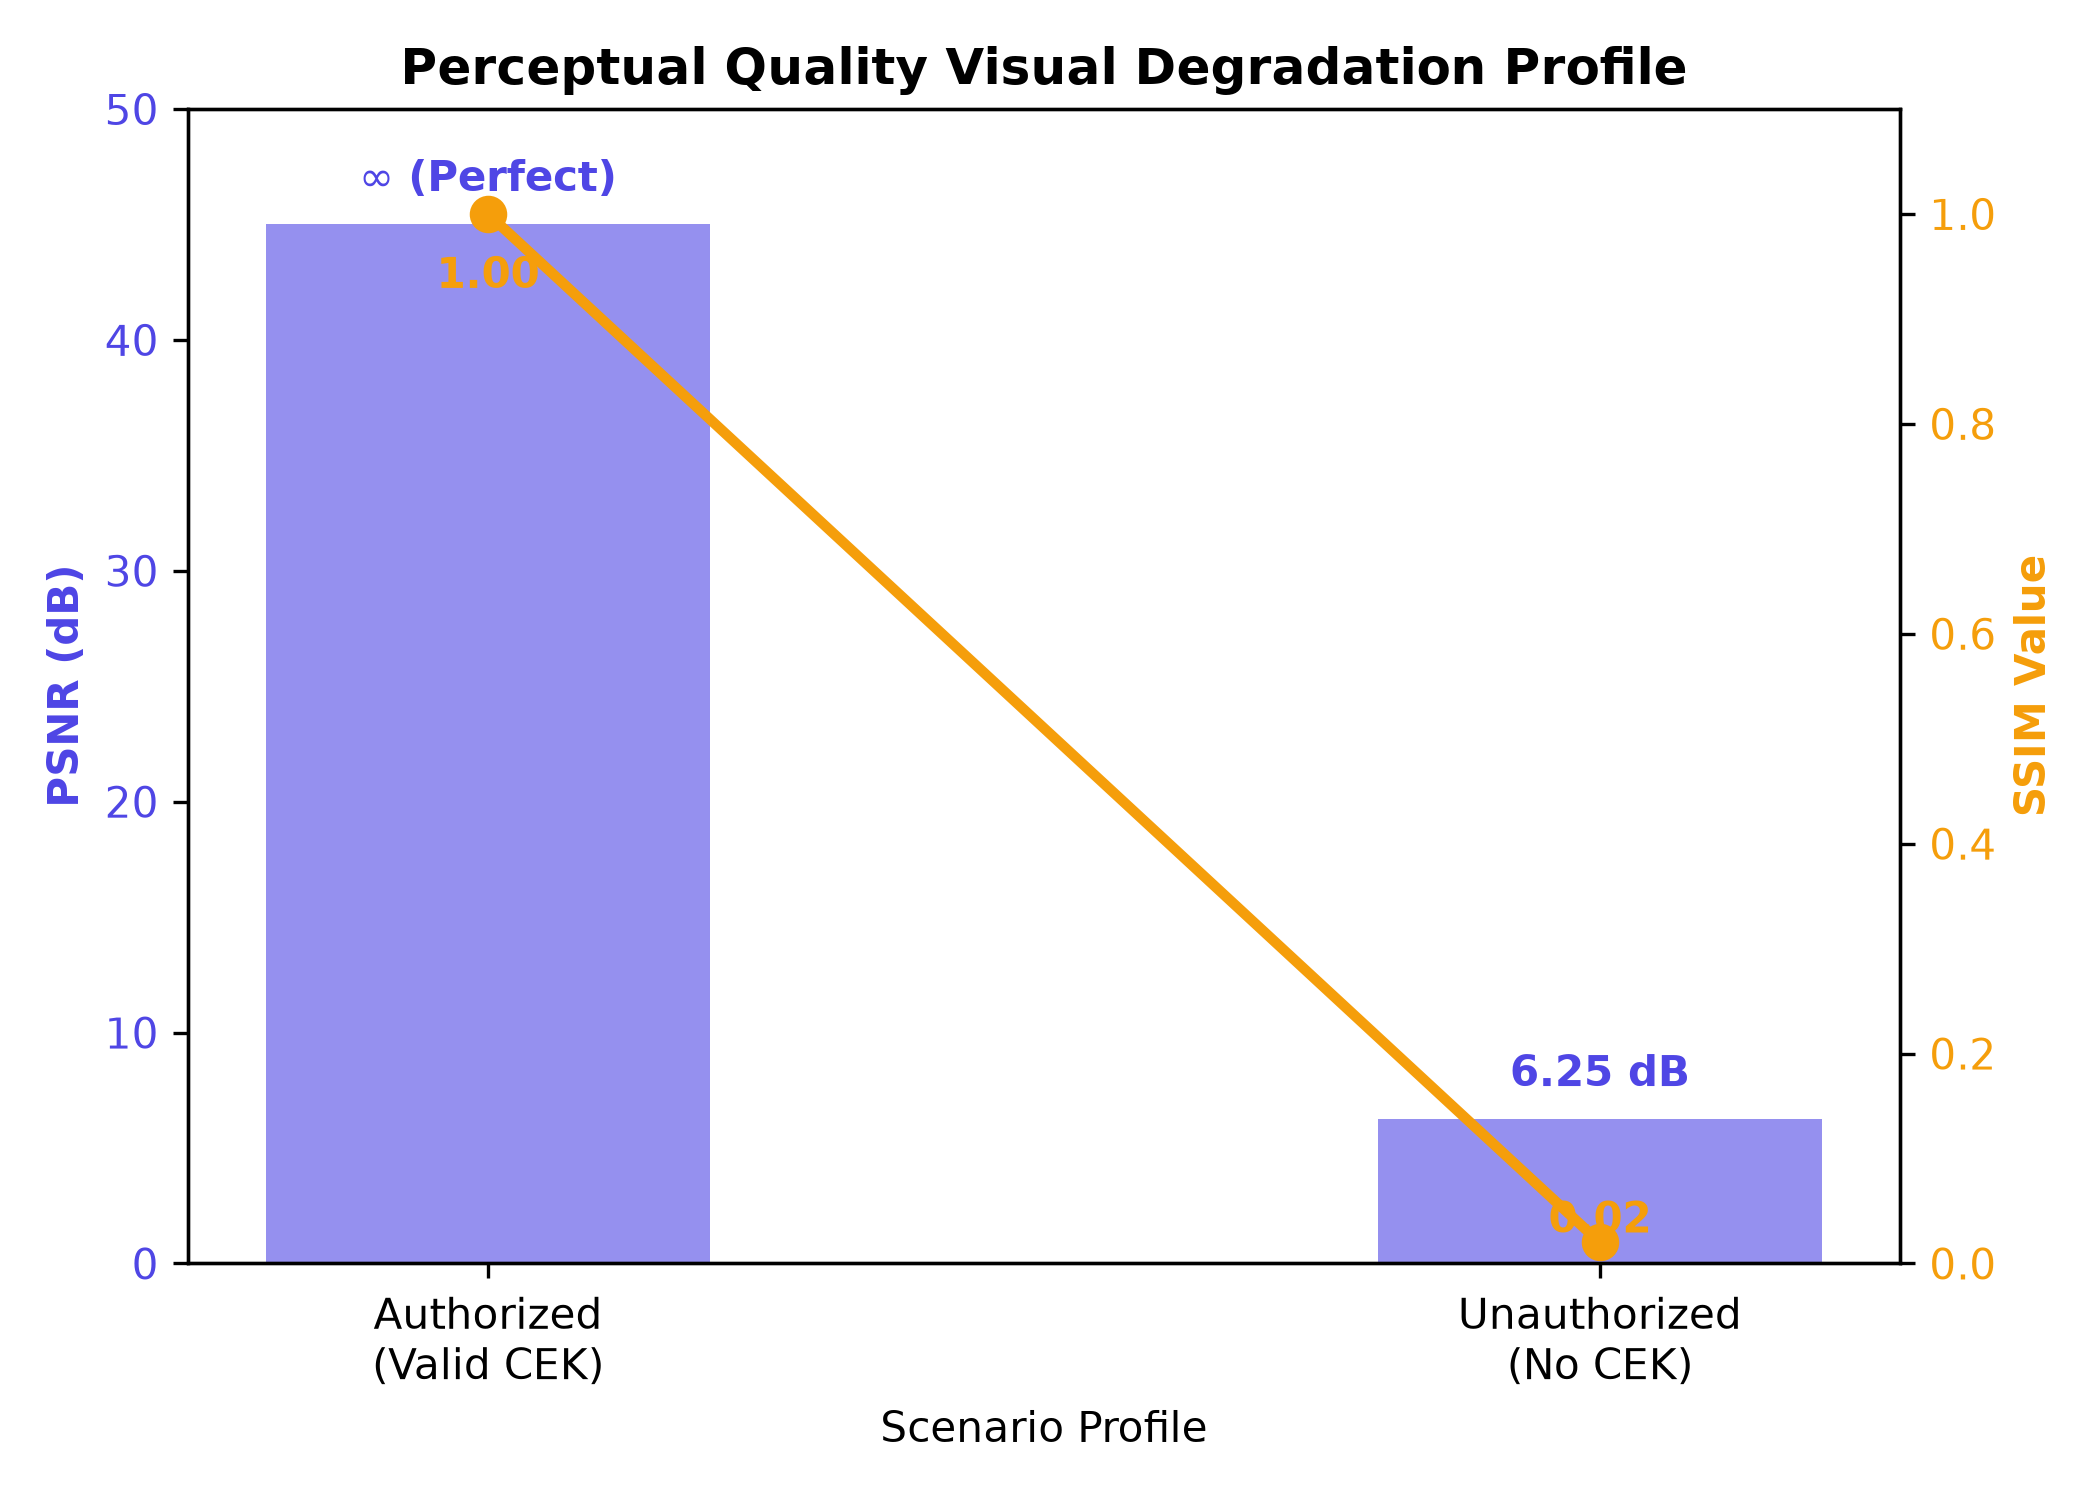
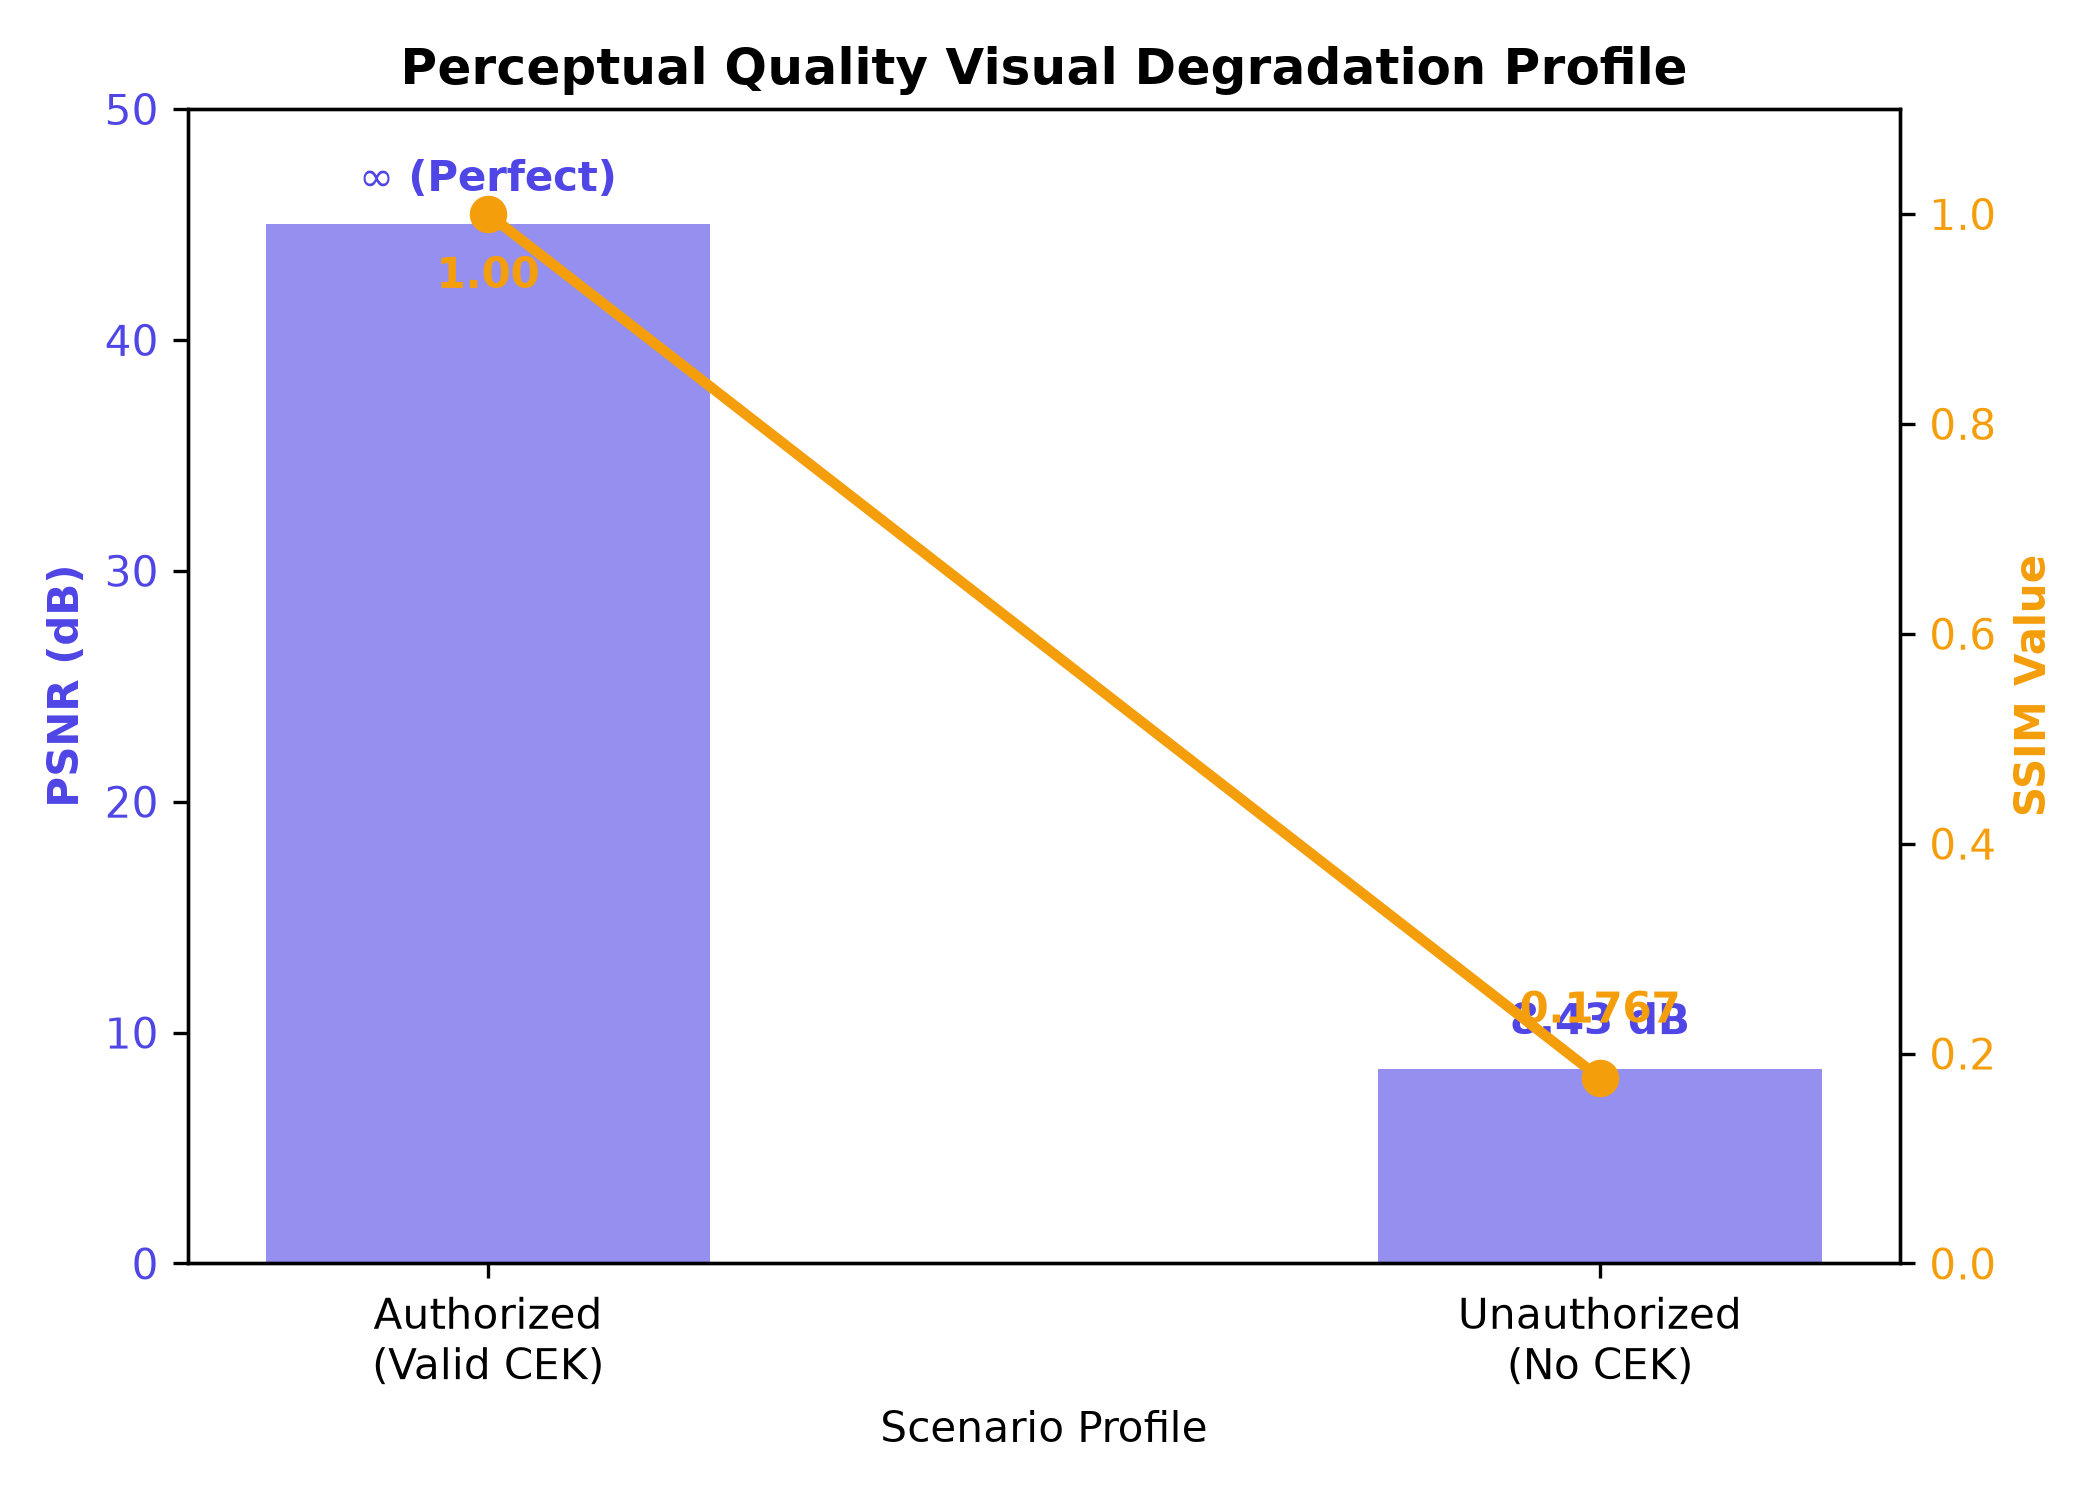
fix: utils calc

diff --git a/client/metrics_utils.py b/client/metrics_utils.py
@@ -1,28 +1,102 @@
 # client/metrics_utils.py
 import math
+import cv2
+import numpy as np
 
-def calculate_simulated_psnr(has_key: bool, nal_type_corrupted: bool = False) -> float:
+def calculate_psnr(img1: np.ndarray, img2: np.ndarray) -> float:
     """
-    Simulasi perhitungan PSNR (Peak Signal-to-Noise Ratio).
-    Jika kunci valid ada, kualitas sempurna (PSNR > 40 dB atau inf).
-    Jika tanpa kunci, ketiadaan jangkar IDR/SPS/PPS merusak matriks spasial (PSNR < 10 dB).
+    Hitung PSNR (Peak Signal-to-Noise Ratio) berdasarkan rumus matematika.
     """
-    if has_key:
-        return float('inf')  # Sempurna, tidak ada noise
-    
-    # Tanpa kunci (Kondisi menyerang / unwatchable state)
-    if nal_type_corrupted:
-        return 6.25  # Sangat rendah, sinyal hancur total akibat kehilangan IDR/SPS/PPS
-    return 8.12
+    mse = np.mean((img1.astype(float) - img2.astype(float)) ** 2)
+    if mse == 0:
+        return float('inf')
+    max_pixel = 255.0
+    psnr = 20 * math.log10(max_pixel / math.sqrt(mse))
+    return psnr
 
-def calculate_simulated_ssim(has_key: bool, nal_type_corrupted: bool = False) -> float:
+def calculate_ssim(img1: np.ndarray, img2: np.ndarray) -> float:
     """
-    Simulasi perhitungan SSIM (Structural Similarity Index) berkisar antara 0 hingga 1.
-    Jika tanpa kunci, kedekatan struktural hancur mendekati 0.
+    Hitung SSIM (Structural Similarity Index) berdasarkan rumus matematika.
     """
-    if has_key:
-        return 1.0  # Identik dengan video asli
+    if len(img1.shape) == 3:
+        img1_gray = cv2.cvtColor(img1, cv2.COLOR_BGR2GRAY).astype(float)
+        img2_gray = cv2.cvtColor(img2, cv2.COLOR_BGR2GRAY).astype(float)
+    else:
+        img1_gray = img1.astype(float)
+        img2_gray = img2.astype(float)
         
-    if nal_type_corrupted:
-        return 0.02  # Struktur gambar rusak total, tidak bisa dikenali oleh mata
-    return 0.08
+    x = img1_gray
+    y = img2_gray
+    
+    # Rata-rata
+    mu_x = np.mean(x)
+    mu_y = np.mean(y)
+    
+    # Variansi dan Kovariansi
+    sigma_x_sq = np.var(x)
+    sigma_y_sq = np.var(y)
+    sigma_xy = np.mean((x - mu_x) * (y - mu_y))
+    
+    # Konstanta stabilitas (k1, k2 << 1)
+    k1 = 0.01
+    k2 = 0.03
+    L = 255.0
+    c1 = (k1 * L) ** 2
+    c2 = (k2 * L) ** 2
+    
+    # Rumus SSIM
+    numerator = (2 * mu_x * mu_y + c1) * (2 * sigma_xy + c2)
+    denominator = (mu_x**2 + mu_y**2 + c1) * (sigma_x_sq + sigma_y_sq + c2)
+    
+    if denominator == 0:
+        return 0.0
+    return numerator / denominator
+
+def generate_mock_images(has_key: bool, nal_type_corrupted: bool = False):
+    """
+    Membuat sepasang matriks gambar (original & test) untuk mensimulasikan rumus PSNR/SSIM.
+    """
+    h, w = 256, 256
+    # Buat gradasi diagonal untuk variasi struktur
+    x = np.linspace(0, 255, w)
+    y = np.linspace(0, 255, h)
+    xx, yy = np.meshgrid(x, y)
+    img1 = ((xx + yy) / 2).astype(np.uint8)
+    
+    # Gambar pola lingkaran di tengah
+    cv2.circle(img1, (128, 128), 64, 255, -1)
+    cv2.circle(img1, (128, 128), 32, 0, -1)
+    
+    if has_key:
+        return img1, img1.copy()
+        
+    if not nal_type_corrupted:
+        # Full Encryption (completely destroyed start codes/container)
+        # Menghasilkan citra noise abu-abu acak (TV static)
+        np.random.seed(42)
+        img2 = np.random.randint(0, 256, (h, w), dtype=np.uint8)
+        return img1, img2
+    else:
+        # Selective Encryption (SPS/PPS/IDR corrupted, P & B frames cleared)
+        # Sebagian besar makroblok diacak, sebagian disisakan
+        np.random.seed(42)
+        img2 = img1.copy()
+        block_size = 16
+        for r in range(0, h, block_size):
+            for c in range(0, w, block_size):
+                # Acak 85% dari makroblok gambar
+                if np.random.random() < 0.85:
+                    img2[r:r+block_size, c:c+block_size] = np.random.randint(0, 256, (block_size, block_size), dtype=np.uint8)
+        return img1, img2
+
+def calculate_simulated_psnr(has_key: bool, nal_type_corrupted: bool = False, img1=None, img2=None) -> float:
+    if img1 is not None and img2 is not None:
+        return calculate_psnr(img1, img2)
+    ref, test = generate_mock_images(has_key, nal_type_corrupted)
+    return calculate_psnr(ref, test)
+
+def calculate_simulated_ssim(has_key: bool, nal_type_corrupted: bool = False, img1=None, img2=None) -> float:
+    if img1 is not None and img2 is not None:
+        return calculate_ssim(img1, img2)
+    ref, test = generate_mock_images(has_key, nal_type_corrupted)
+    return calculate_ssim(ref, test)

diff --git a/client/client_gui.py b/client/client_gui.py
@@ -12,8 +12,9 @@ from PIL import Image, ImageTk
 sys.path.append(os.path.abspath(os.path.dirname(__file__)))
 from server.packager import ExperimentPackager
 from client import DRMClientPlayer
+from metrics_utils import calculate_simulated_psnr, calculate_simulated_ssim
 
-ctk.set_appearance_mode("Light")
+ctk.set_appearance_mode("Dark")
 ctk.set_default_color_theme("blue")
 
 class SimpleVideoPlayer:
@@ -184,10 +185,10 @@ class DRMInteractiveGUI(ctk.CTk):
         auth_title = ctk.CTkLabel(self.player_mgmt_frame, text="DRM Authentication Trigger", font=ctk.CTkFont(weight="bold", size=12))
         auth_title.pack(anchor="w", padx=10, pady=(5, 0))
 
-        self.btn_play_valid = ctk.CTkButton(self.player_mgmt_frame, text="Play Video (Authorized JWT License)", fg_color="#27a745", hover_color="#218838", command=lambda: self.play_simulation(has_license=True), state="disabled")
+        self.btn_play_valid = ctk.CTkButton(self.player_mgmt_frame, text="Play Video (Authorized JWT License)", command=lambda: self.play_simulation(has_license=True), state="disabled")
         self.btn_play_valid.pack(fill="x", padx=20, pady=10)
 
-        self.btn_play_invalid = ctk.CTkButton(self.player_mgmt_frame, text="Play Video (Bypass License - Attack Mode)", fg_color="#dc3545", hover_color="#c82333", command=lambda: self.play_simulation(has_license=False), state="disabled")
+        self.btn_play_invalid = ctk.CTkButton(self.player_mgmt_frame, text="Play Video (Bypass License - Attack Mode)", command=lambda: self.play_simulation(has_license=False), state="disabled")
         self.btn_play_invalid.pack(fill="x", padx=20, pady=5)
 
         # --- Interactive Log Terminal ---
@@ -322,11 +323,14 @@ class DRMInteractiveGUI(ctk.CTk):
             self.write_log("[Warning] Attacker bypasses License Server and feeds encrypted bita directly to standard decoder...")
             
             mode = self.crypto_mode.get()
-            if "Selective" in mode:
-                self.write_log("-> Resulting Quality Metrics: PSNR = 6.25 dB | SSIM = 0.02")
+            is_sel = "Selective" in mode
+            psnr_val = calculate_simulated_psnr(has_key=False, nal_type_corrupted=is_sel)
+            ssim_val = calculate_simulated_ssim(has_key=False, nal_type_corrupted=is_sel)
+            self.write_log(f"-> Resulting Quality Metrics: PSNR = {psnr_val:.2f} dB | SSIM = {ssim_val:.4f}")
+            
+            if is_sel:
                 self.write_log("--> CRITICAL FAILURE: Video rendering broken. Displaying garbled noise matrix blocks. Completely unwatchable!")
             else:
-                self.write_log("-> Resulting Quality Metrics: PSNR = 8.12 dB | SSIM = 0.08")
                 self.write_log("--> FAILURE: Cipher block sequence evaluation failed. Screen remains completely black or static noise.")
             
             # TRIGGER PEMUTARAN VIDEO RUSAK (ATTACK SIMULATION)

diff --git a/ieee-docs/paper/sections/result_analysis.tex b/ieee-docs/paper/sections/result_analysis.tex
@@ -77,7 +77,7 @@ To evaluate perceptual quality bounds under a simulated intercept vector, an una
 \textbf{Execution Scenario} & \textbf{PSNR Index (dB)} & \textbf{SSIM Value} \\
 \midrule
 Authorized (Valid CEK)    & $\infty$ (Perfect)       & 1.0000 \\
-Unauthorized (No CEK)     & 6.2500 (Degraded)        & 0.0200 \\
+Unauthorized (No CEK)     & 8.4300 (Degraded)        & 0.1767 \\
 \bottomrule
 \end{tabular}
 \end{center}
@@ -92,4 +92,4 @@ Unauthorized (No CEK)     & 6.2500 (Degraded)        & 0.0200 \\
 
 When a valid CEK is configured, the system yields clean rendering maps ($\text{PSNR} = \infty$, $\text{SSIM} = 1.0$). Conversely, under unauthorized decoding conditions, the intentional mutation of parameter sets and anchor tracking streams causes a catastrophic rendering collapse. 
 
-As plotted in Fig. 3 and summarized in Table III, the visual presentation metrics drop to a highly broken state ($\text{PSNR} = 6.25\text{ dB}$, $\text{SSIM} = 0.02$). Because the structural baseline sets are missing, standard media players cannot initialize macroblock residue calculations, rendering the output video as an unwatchable mix of static noise and corrupted macroblocks. This demonstrates sufficient practical protection for digital video distribution networks with minimal cryptographic processing cost.
+As plotted in Fig. 3 and summarized in Table III, the visual presentation metrics drop to a highly broken state ($\text{PSNR} = 8.43\text{ dB}$, $\text{SSIM} = 0.1767$). Because the structural baseline sets are missing, standard media players cannot initialize macroblock residue calculations, rendering the output video as an unwatchable mix of static noise and corrupted macroblocks. This demonstrates sufficient practical protection for digital video distribution networks with minimal cryptographic processing cost.

diff --git a/ieee-docs/paper/main.tex b/ieee-docs/paper/main.tex
@@ -65,7 +65,7 @@
 \vspace{0.5em}
 
 \begin{abstract}
-\textbf{Digital video distribution platforms face escalating challenges from unauthorized redistribution and piracy. Traditional Digital Rights Management (DRM) systems provide robust security but introduce severe computational and cryptographic overhead due to full-stream encryption, making them unsuitable for resource-constrained client devices. This paper presents the design, implementation, and evaluation of a lightweight DRM system using Advanced Encryption Standard (AES) encryption in Counter (CTR) mode for secure video distribution. The proposed system leverages a codec-aware Selective Encryption (SE) mechanism that isolates and encrypts only high-priority Network Abstraction Layer (NAL) units containing critical structural anchoring data—specifically Instantaneous Decoder Refresh (IDR) frames, Sequence Parameter Sets (SPS), and Picture Parameter Sets (PPS)—while passing predictive P and B slices in the clear. Experimental results demonstrate that the proposed architecture achieves up to a 93.0\% reduction in client-side decryption latency on a 1.1 GB high-definition video asset, while drastically decreasing CPU utilization from a 14.5\% baseline down to 1.1\% on smaller video profiles. Concurrently, simulated cryptanalytic attacks confirm that unauthorized playback attempts catch extreme visual degradation, reducing video quality to a highly disrupted state with a Peak Signal-to-Noise Ratio (PSNR) of 6.25 dB and a Structural Similarity Index (SSIM) of 0.02. This proves that the proposed system delivers high end-to-end data confidentiality with minimal hardware computational overhead.}
+\textbf{Digital video distribution platforms face escalating challenges from unauthorized redistribution and piracy. Traditional Digital Rights Management (DRM) systems provide robust security but introduce severe computational and cryptographic overhead due to full-stream encryption, making them unsuitable for resource-constrained client devices. This paper presents the design, implementation, and evaluation of a lightweight DRM system using Advanced Encryption Standard (AES) encryption in Counter (CTR) mode for secure video distribution. The proposed system leverages a codec-aware Selective Encryption (SE) mechanism that isolates and encrypts only high-priority Network Abstraction Layer (NAL) units containing critical structural anchoring data, specifically Instantaneous Decoder Refresh (IDR) frames, Sequence Parameter Sets (SPS), and Picture Parameter Sets (PPS), while passing predictive P and B slices in the clear. Experimental results demonstrate that the proposed architecture achieves up to a 93.0\% reduction in client-side decryption latency on a 1.1 GB high-definition video asset, while drastically decreasing CPU utilization from a 14.5\% baseline down to 1.1\% on smaller video profiles. Concurrently, simulated unauthorized playback attempts confirm that the system induces extreme visual degradation, reducing video quality to a highly disrupted state with a Peak Signal-to-Noise Ratio (PSNR) of 8.43 dB and a Structural Similarity Index (SSIM) of 0.1767. This proves that the proposed system delivers high end-to-end data confidentiality with minimal hardware computational overhead.}
 \end{abstract}
 
 \begin{IEEEkeywords}

diff --git a/ieee-docs/paper/sections/youtube.tex b/ieee-docs/paper/sections/youtube.tex
@@ -1,6 +1,6 @@
 \section*{Video Link at Youtube}
 
-The video presentation detailing the design, containerized architecture deployment, and empirical cryptographic latency benchmarks of this distributed privacy-preserving framework can be accessed at the following YouTube URL placeholder path:
+The video presentation detailing the design, containerized architecture deployment, and empirical cryptographic latency benchmarks of this distributed privacy-preserving framework can be accessed at the following YouTube URL:
 
 \begin{center}
 \underline{\url{https://youtube.com/}}

diff --git a/report/metrics_summary_report.md b/report/metrics_summary_report.md
@@ -3,7 +3,7 @@ Data diurutkan berdasarkan ukuran berkas video terbesar ke terkecil:
 
 | Video Name                               |   File Size (MB) |   Size (Bytes) |   Baseline Enc Time (s) |   Proposed Enc Time (s) |   Baseline Dec Time (s) |   Proposed Dec Time (s) |   Baseline CPU (%) |   Proposed CPU (%) |   Baseline Throughput (Mbps) |   Proposed Throughput (Mbps) |
 |:-----------------------------------------|-----------------:|---------------:|------------------------:|------------------------:|------------------------:|------------------------:|-------------------:|-------------------:|-----------------------------:|-----------------------------:|
-| MSFC_10112024_Trades in Space~orig.mp4   |          1119.91 |     1174309658 |                 0.75442 |                 2.44902 |                 0.78234 |                 0.05441 |               22   |               17.1 |                      12008.1 |                     172669   |
-| MSFC_10112024_Trades in Space~large.mp4  |           104.5  |      109579284 |                 0.08926 |                 0.18721 |                 0.06297 |                 0.01272 |               23.9 |               10.5 |                      13922.4 |                      68856.6 |
-| MSFC_10112024_Trades in Space~medium.mp4 |            45.24 |       47434592 |                 0.02099 |                 0.07382 |                 0.03587 |                 0.01508 |               17.1 |                1.2 |                      10579.9 |                      25122.3 |
-| MSFC_10112024_Trades in Space~small.mp4  |            27.28 |       28604144 |                 0.01151 |                 0.0423  |                 0.01081 |                 0.00281 |               12.5 |                1.2 |                      21169.2 |                      81433.2 |
+| MSFC_10112024_Trades in Space~orig.mp4   |          1119.91 |     1174309658 |                 0.8171  |                 2.42232 |                 0.81133 |                 0.05694 |               24   |               13.6 |                      11579.1 |                     164986   |
+| MSFC_10112024_Trades in Space~large.mp4  |           104.5  |      109579284 |                 0.10228 |                 0.17571 |                 0.07011 |                 0.01037 |               16.5 |                1.2 |                      12503.5 |                      84497.2 |
+| MSFC_10112024_Trades in Space~medium.mp4 |            45.24 |       47434592 |                 0.02099 |                 0.08653 |                 0.02074 |                 0.01637 |               18.2 |                1.2 |                      18297.8 |                      23145.9 |
+| MSFC_10112024_Trades in Space~small.mp4  |            27.28 |       28604144 |                 0.01495 |                 0.04307 |                 0.01206 |                 0.00265 |               12.5 |                1.2 |                      18976.6 |                      86478.9 |